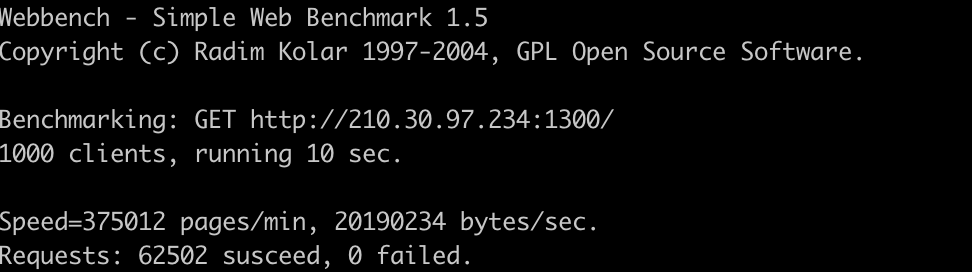
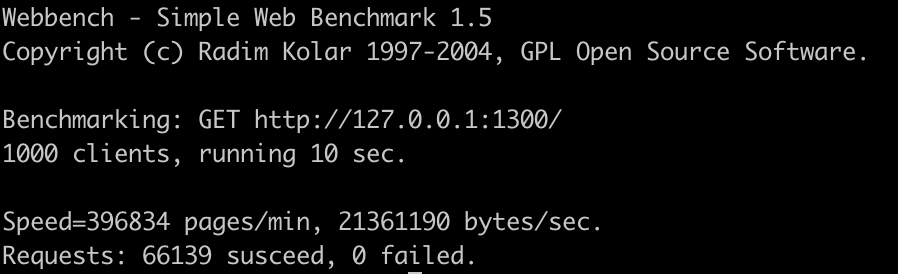
update readme

diff --git a/README.md b/README.md
@@ -42,7 +42,7 @@ cd ../
 
 |   用户数   |  10   |  100  | 1000  | 10000 |
 | :--: | :---: | :---: | :---: | :---: |
-| QPS  | 2668 | 6263 | 6250 |  161  |
+| QPS  | 2668 | 6263 | 6614 |  161  |
 
 ## 致谢
 
